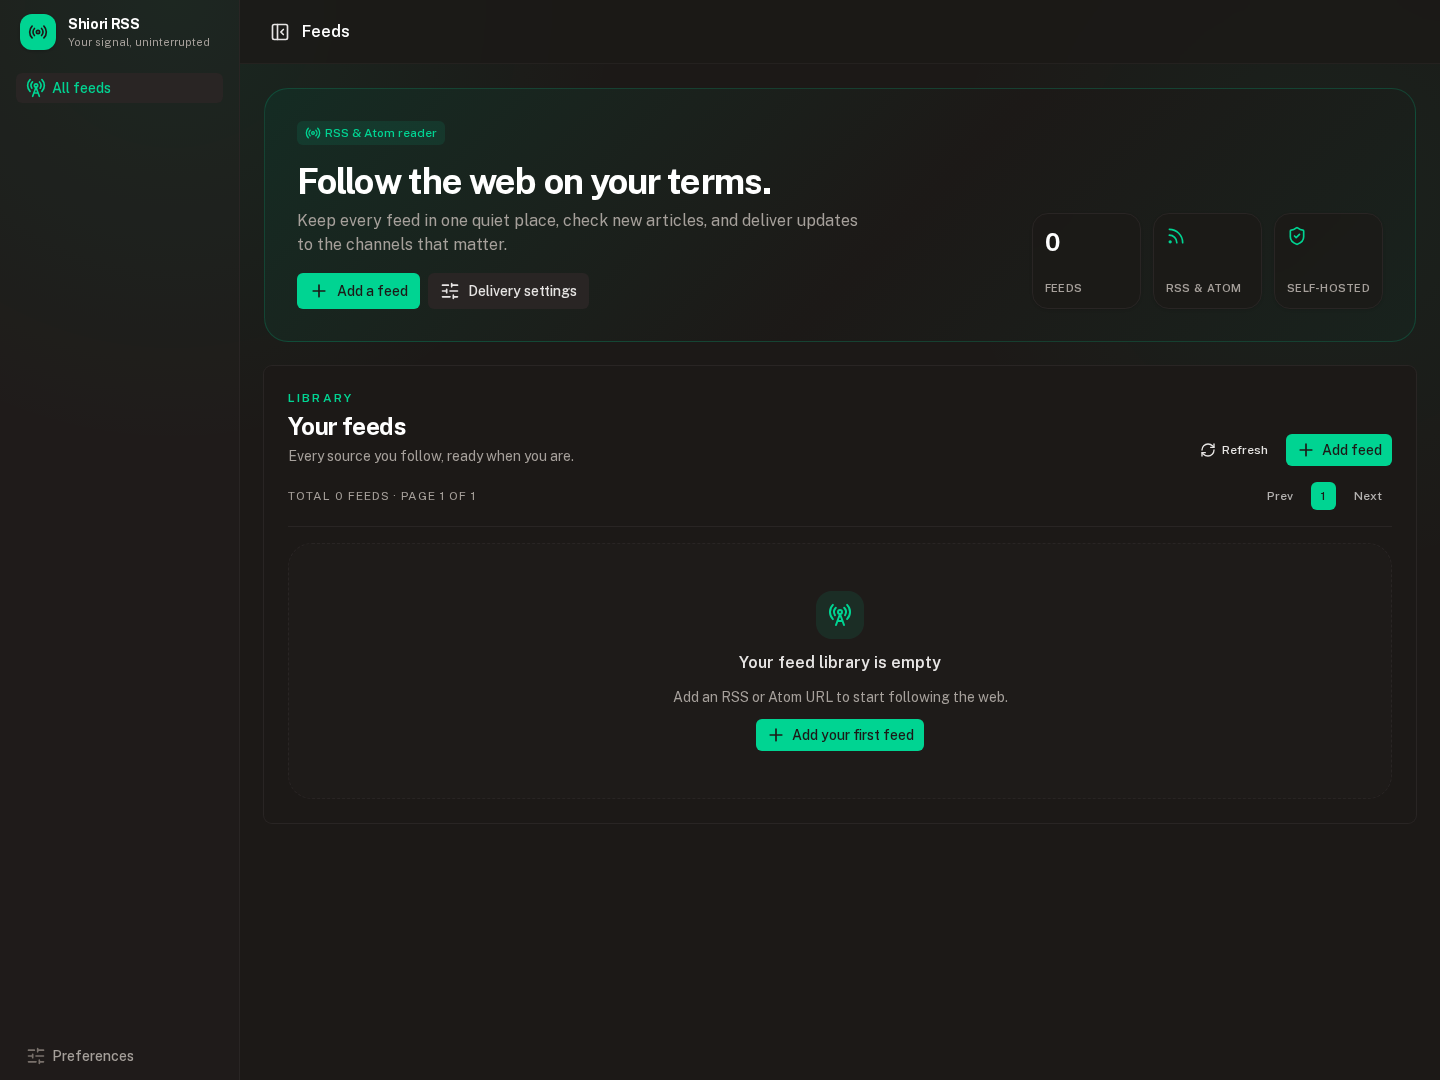
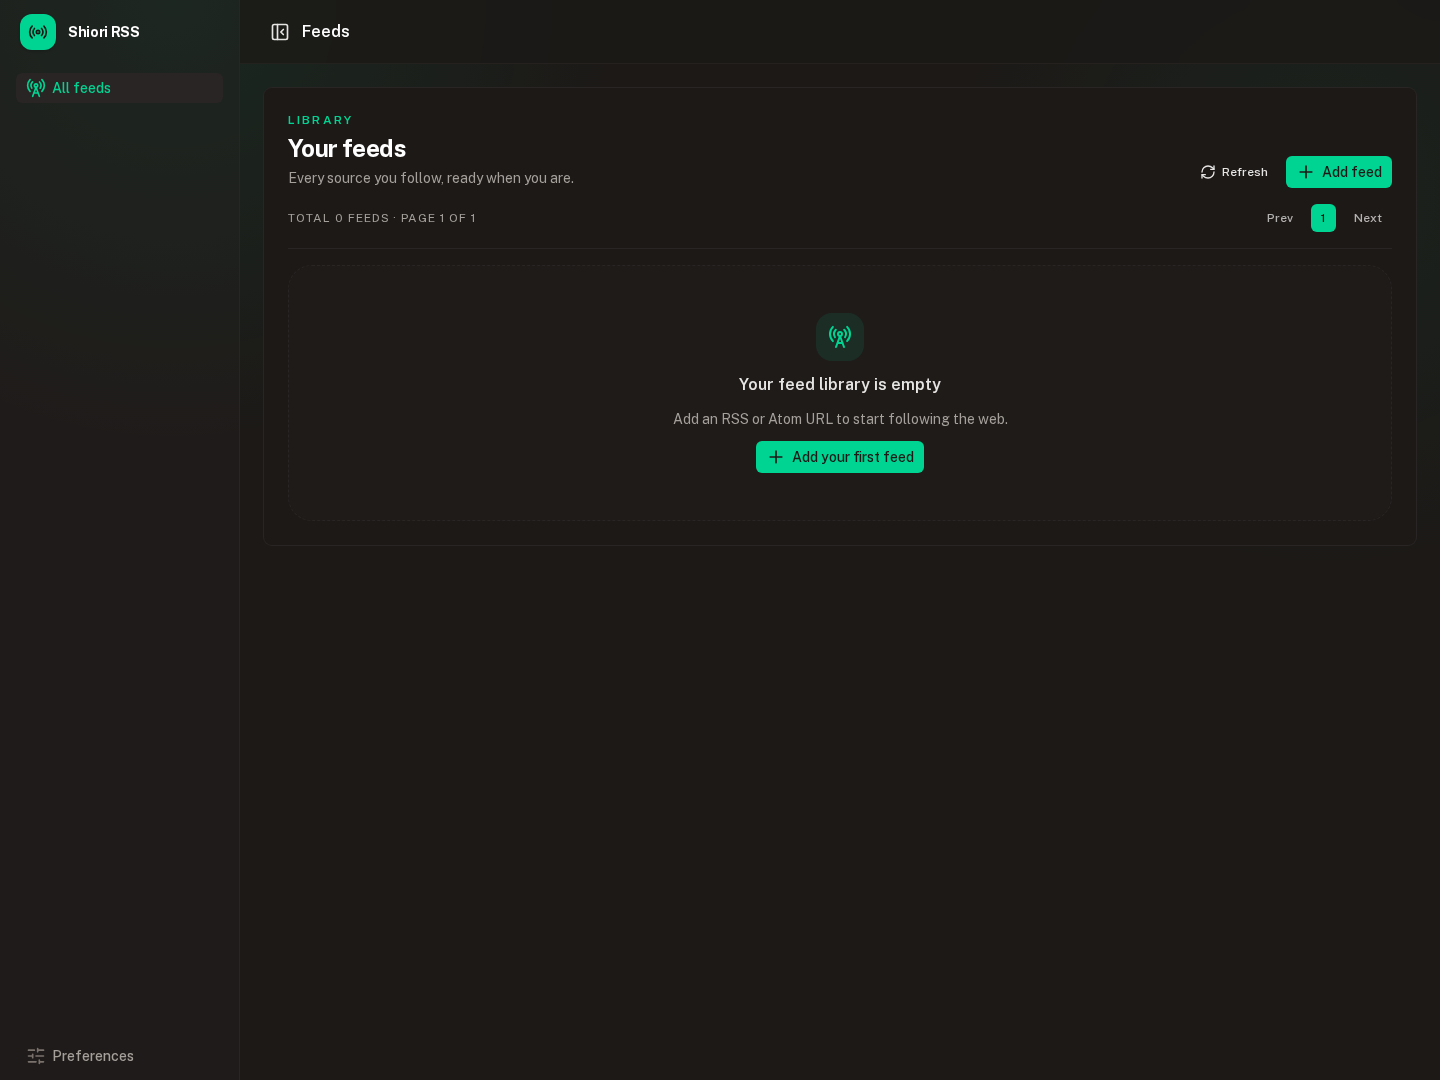
fix(frontend): remove promotional hero copy
Start the feed library and settings screens directly with their functional content, and remove the sidebar tagline and unused hero styles.

diff --git a/frontend/app/pages/index.vue b/frontend/app/pages/index.vue
@@ -6,41 +6,6 @@
 
     <template #body>
       <div class="mx-auto w-full max-w-7xl space-y-6 pb-10">
-        <section class="feed-hero overflow-hidden rounded-3xl border border-primary/20 p-6 sm:p-8">
-          <div class="relative z-10 flex flex-col gap-8 lg:flex-row lg:items-end lg:justify-between">
-            <div class="max-w-2xl space-y-4">
-              <UBadge color="primary" variant="soft" icon="i-lucide-radio" label="RSS & Atom reader" />
-              <div class="space-y-2">
-                <h1 class="text-3xl font-bold tracking-tight text-highlighted sm:text-4xl">
-                  Follow the web on your terms.
-                </h1>
-                <p class="max-w-xl text-sm leading-6 text-muted sm:text-base">
-                  Keep every feed in one quiet place, check new articles, and deliver updates to the channels that matter.
-                </p>
-              </div>
-              <div class="flex flex-wrap gap-2">
-                <UButton label="Add a feed" icon="i-lucide-plus" size="lg" @click="openCreateModal" />
-                <UButton to="/settings?tab=automation" label="Delivery settings" icon="i-lucide-sliders-horizontal" color="neutral" variant="soft" size="lg" />
-              </div>
-            </div>
-
-            <div class="grid grid-cols-3 gap-2 sm:gap-3">
-              <div class="signal-stat">
-                <span class="signal-stat-value">{{ feedList.total }}</span>
-                <span class="signal-stat-label">Feeds</span>
-              </div>
-              <div class="signal-stat">
-                <UIcon name="i-lucide-rss" class="size-5 text-primary" />
-                <span class="signal-stat-label">RSS & Atom</span>
-              </div>
-              <div class="signal-stat">
-                <UIcon name="i-lucide-shield-check" class="size-5 text-primary" />
-                <span class="signal-stat-label">Self-hosted</span>
-              </div>
-            </div>
-          </div>
-        </section>
-
         <UPageCard :ui="{ body: 'space-y-5' }">
           <div class="flex flex-col gap-4 md:flex-row md:items-end md:justify-between">
             <div>

diff --git a/frontend/tests/e2e/rss-reader.spec.ts b/frontend/tests/e2e/rss-reader.spec.ts
@@ -4,7 +4,8 @@ test("opens the RSS feed manager as the app home", async ({ page }) => {
   await page.goto("/");
   await expect(page).toHaveURL(/\/$/);
   await expect(page.getByRole("heading", { name: "Your feeds" })).toBeVisible();
-  await expect(page.getByRole("heading", { name: "Follow the web on your terms." })).toBeVisible();
+  await expect(page.getByText("Follow the web on your terms.")).toHaveCount(0);
+  await expect(page.getByText("Your signal, uninterrupted")).toHaveCount(0);
   await expect(page.getByText("Automation", { exact: true })).toHaveCount(0);
   await expect(page.getByText("Custom news sites")).toHaveCount(0);
   await expect(page.getByRole("link", { name: "Bookmarks" })).toHaveCount(0);
@@ -25,6 +26,7 @@ test("does not expose the former RSS screen route", async ({ page }) => {
 test("shows LLM connection settings without restoring custom news", async ({ page }) => {
   await page.goto("/settings");
 
+  await expect(page.getByText("Tune your feed workflow.")).toHaveCount(0);
   await expect(page.getByText("Theme", { exact: true })).toBeVisible();
   await page.getByRole("tab", { name: "LLM" }).click();
   await expect(page.getByText("LLM connection", { exact: true })).toBeVisible();

diff --git a/frontend/app/pages/settings.vue b/frontend/app/pages/settings.vue
@@ -6,21 +6,6 @@
 
     <template #body>
       <div class="mx-auto w-full max-w-5xl space-y-6 pb-10">
-        <section class="rounded-3xl border border-default bg-elevated/35 p-6 sm:p-8">
-          <div class="flex items-start gap-4">
-            <span class="grid size-12 shrink-0 place-items-center rounded-2xl bg-primary text-inverted">
-              <UIcon name="i-lucide-sliders-horizontal" class="size-6" />
-            </span>
-            <div>
-              <p class="text-xs font-semibold uppercase tracking-[0.16em] text-primary">Preferences</p>
-              <h1 class="mt-1 text-3xl font-bold tracking-tight text-highlighted">Tune your feed workflow.</h1>
-              <p class="mt-2 max-w-2xl text-sm leading-6 text-muted">
-                Choose how Shiori looks, where new articles are delivered, and which LLM connection is available to the app.
-              </p>
-            </div>
-          </div>
-        </section>
-
         <UTabs
           v-model="activeCategory"
           :items="settingsCategories"

diff --git a/frontend/app/assets/css/main.css b/frontend/app/assets/css/main.css
@@ -32,23 +32,6 @@
 }
 
 @layer components {
-  .feed-hero {
-    background:
-      linear-gradient(135deg, color-mix(in srgb, var(--ui-primary) 10%, var(--ui-bg)) 0%, var(--ui-bg) 55%, color-mix(in srgb, var(--ui-primary) 5%, var(--ui-bg)) 100%);
-  }
-
-  .signal-stat {
-    @apply flex min-h-24 min-w-24 flex-col justify-between rounded-2xl border border-default bg-default/75 p-3 shadow-sm backdrop-blur;
-  }
-
-  .signal-stat-value {
-    @apply text-2xl font-bold tracking-tight text-highlighted;
-  }
-
-  .signal-stat-label {
-    @apply text-[11px] font-semibold uppercase tracking-wide text-muted;
-  }
-
   .feed-detail-hero {
     background: linear-gradient(135deg, color-mix(in srgb, var(--ui-primary) 7%, var(--ui-bg)) 0%, var(--ui-bg) 70%);
   }

diff --git a/frontend/app/layouts/default.vue b/frontend/app/layouts/default.vue
@@ -19,7 +19,6 @@
           </span>
           <span v-if="!collapsed" class="min-w-0">
             <span class="block text-sm font-bold tracking-tight text-highlighted">Shiori RSS</span>
-            <span class="block text-[11px] text-muted">Your signal, uninterrupted</span>
           </span>
         </NuxtLink>
       </template>

diff --git a/specs/components/frontend/README.md b/specs/components/frontend/README.md
@@ -6,6 +6,7 @@ Nuxt 4 SPA は RSS 専用 UI を提供する。
 - 旧フィード一覧ルート `/feeds` は提供しない。
 - `/feeds/{id}` はフィード詳細と記事履歴を提供する。
 - `/settings` は General、Automation、Webhooks、LLM のカテゴリタブを持ち、テーマ、定期取得、全体通知、Webhook、LLM接続設定を提供する。
+- 一覧と設定画面は宣伝的なヒーローやキャッチコピーを置かず、操作対象を先頭に表示する。
 - サイドバーには All feeds、登録済みフィード、Preferences だけを表示する。
 - 旧 `/rss` ルートは提供しない。
 - API 呼び出しは `useApi` と `/api` reverse proxy を通す。

diff --git a/specs/quality/observations/frontend-e2e.md b/specs/quality/observations/frontend-e2e.md
@@ -1,3 +1,3 @@
 # Frontend E2E Observations
 
-Playwright verifies that the app root directly renders the feed library, the old `/feeds` and `/rss` routes are absent, removed navigation and custom-source UI stay absent, and settings expose Automation and LLM through category tabs.
+Playwright verifies that the app root directly renders the feed library without promotional copy, the old `/feeds` and `/rss` routes are absent, removed navigation and custom-source UI stay absent, and settings expose Automation and LLM through category tabs without a hero.

diff --git a/specs/product/requirements.md b/specs/product/requirements.md
@@ -31,6 +31,7 @@
 6. Automation タブで定期実行とRSS Webhook通知の有効・無効を管理できる。
 7. General、Webhooks、LLM タブでテーマ、通知先、LLM接続をそれぞれ管理できる。
 8. 旧 `/feeds`、`/rss`、`/rss/{id}` ルートは提供しない。
+9. 一覧と設定画面にはキャッチコピー用のヒーロー領域を設けず、主要操作を優先して表示する。
 
 ## LLM 接続
 
